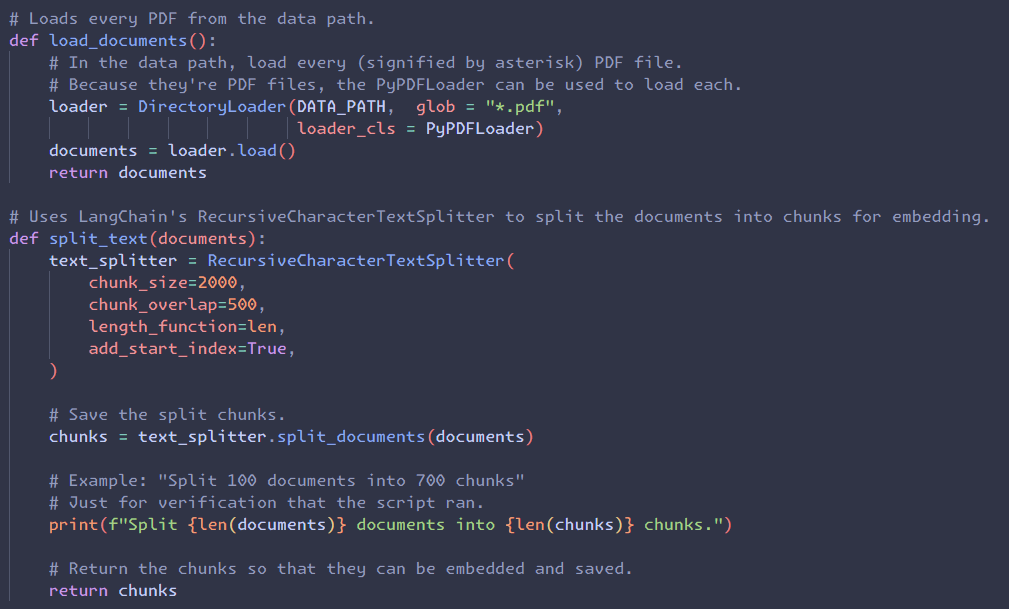
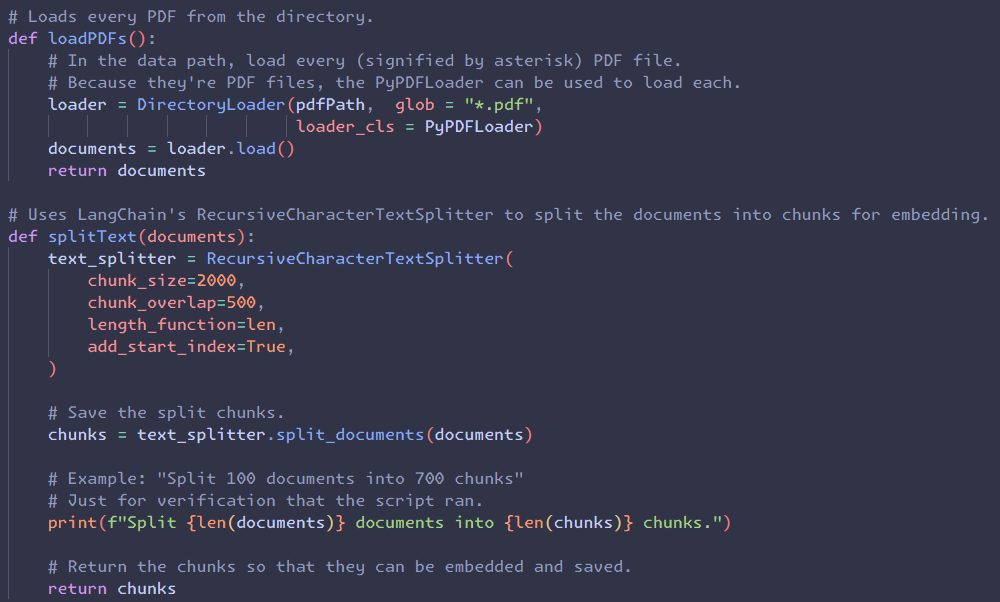
Updated some variable names and associated images with those variables for clarity

diff --git a/Artifact/VectorStore.py b/Artifact/VectorStore.py
@@ -28,34 +28,34 @@ import shutil
         #   FAISS-Unstructured: Chunk size 1000, Overlap 200, UnstructuredPDFLoader with default args.
         #   FAISS-BigChunks: Chunk size 1500, Overlap 300, PyPDFLoader with default args.
         #   FAISS-HugeChunks: Chunk size 2000, Overlap 500, PyPDFLoader with default args.
-FAISS_PATH = "VectorStores/FAISS-HugeChunks"
-DATA_PATH = "Data/Policies"#/TESTING" # minimise token use
+dbPath = "VectorStores/FAISS-HugeChunks"
+pdfPath = "Data/Policies"
 
 # Loads all PDFs, chunks them, then saves them to a FAISS DB.
-def generate_data_store():
+def generateDB():
     # Load every PDF.
-    documents = load_documents()
+    documents = loadPDFs()
     # Chunk all the text.
-    chunks = split_text(documents)
+    chunks = splitText(documents)
     # Save them to the Faiss DB.
-    save_to_faiss(chunks)
+    saveToFAISS(chunks)
 
-# Loads every PDF from the data path.
-def load_documents():
+# Loads every PDF from the directory.
+def loadPDFs():
     # In the data path, load every (signified by asterisk) PDF file.
     # Because they're PDF files, the PyPDFLoader can be used to load each.
-    loader = DirectoryLoader(DATA_PATH,  glob = "*.pdf",
+    loader = DirectoryLoader(pdfPath,  glob = "*.pdf",
                              loader_cls = PyPDFLoader)
     documents = loader.load()
     return documents
 
 # Uses LangChain's RecursiveCharacterTextSplitter to split the documents into chunks for embedding.
-def split_text(documents):
+def splitText(documents):
     text_splitter = RecursiveCharacterTextSplitter(
-        chunk_size=2000,  # See Lines 28 - 34 for info on size and overlap.
+        chunk_size=2000,  
         chunk_overlap=500,  
-        length_function=len, # A custom length function can be made, but I saw no need.
-        add_start_index=True, # Stores the chunk's starting character index in its metadata.
+        length_function=len, # ! Test if necessary.
+        add_start_index=True, # ! Test if necessary.
     )
 
     # Save the split chunks.
@@ -68,11 +68,10 @@ def split_text(documents):
     # Return the chunks so that they can be embedded and saved.
     return chunks
 
-
-def save_to_faiss(chunks):
+def saveToFAISS(chunks):
     # Clear out the database first if it exists.
-    if os.path.exists(FAISS_PATH):
-        shutil.rmtree(FAISS_PATH)
+    if os.path.exists(dbPath):
+        shutil.rmtree(dbPath)
 
     # Create a new DB from the documents.
     # Takes the chunks and uses OpenAI text-embedding-3-small to embed them as vectors.
@@ -85,11 +84,11 @@ def save_to_faiss(chunks):
     )
     
     # Save the generated DB to the given path.
-    faiss.save_local(folder_path = FAISS_PATH)
+    faiss.save_local(folder_path = dbPath)
     
-    print(f"Saved {len(chunks)} chunks to {FAISS_PATH}.")
+    print(f"Saved {len(chunks)} chunks to {dbPath}.")
 
 # When this file gets run, generate the FAISS DB, which by extension will load and chunk
 # all documents.
 if __name__ == "__main__":
-    generate_data_store()
+    generateDB()

diff --git a/Artifact/Chatbot.py b/Artifact/Chatbot.py
@@ -32,7 +32,7 @@ from langgraph.prebuilt import ToolNode, tools_condition
         #   FAISS-SmallChunks: Chunk size 500, Overlap 100, PyPDFLoader with default args.
         #   FAISS-BigChunks: Chunk size 1500, Overlap 300, PyPDFLoader with default args.
         #   FAISS-HugeChunks: Chunk size 2000, Overlap 500, PyPDFLoader with default args.
-FAISS_PATH = "VectorStores/FAISS-HugeChunks"
+dbPath = "VectorStores/FAISS-HugeChunks"
 
 
 # Sets up the embedding model with the API key.
@@ -42,22 +42,21 @@ embedder = OpenAIEmbeddings(
 )
 
 # Load the vector database.
-db = FAISS.load_local(folder_path = FAISS_PATH,
+db = FAISS.load_local(folder_path = dbPath,
                       embeddings = embedder,
                       allow_dangerous_deserialization=True)
-
-# Initialise the LLM.
-# LangChain automatically interprets the LLM in question to be OpenAI's gpt-4o-mini simply by
-# specifying its name as a string argument.
-llm = init_chat_model("gpt-4o-mini", temperature = 0,
-                      openai_api_key = os.environ["OPENAI_API_KEY"])
-
 
 # The FAISS DB is also stored as a serialized .pkl file. It's possible
 # for these files to contain malicious code that would be executed on deserialization,
 # hence "allow_dangerous_deserialization". However, I generated the files myself and know
 # that they aren't malicious.
 
+
+# Initialise the LLM.
+# LangChain automatically interprets the LLM in question to be OpenAI's gpt-4o-mini simply by
+# specifying its name as a string argument.
+llm = init_chat_model("gpt-4o-mini", temperature = 0,
+                      openai_api_key = os.environ["OPENAI_API_KEY"])
 
 
 @tool(response_format = "content")

diff --git a/Artifact/Streamlit Frontend.py b/Artifact/Streamlit Frontend.py
@@ -64,8 +64,8 @@ with chatHist:
             # so it would show a blank box. To fix this, the message is checked to see if it's blank first.
             if currentMsg.content != "":
                 # ? Use a robot profile picture. 
-                message_box = st.chat_message('assistant')
-                message_box.markdown(currentMsg.content)
+                messageBox = st.chat_message('assistant')
+                messageBox.markdown(currentMsg.content)
 
             # For logging purposes, the tool call used in the message is stored.
             toolCalls = currentMsg.additional_kwargs.get("tool_calls")
@@ -82,8 +82,8 @@ with chatHist:
         # ? Alternatively, if the user wrote it:
         elif isinstance(currentMsg, HumanMessage):
             # ? Use a person profile picture.
-            message_box = st.chat_message('user')
-            message_box.markdown(currentMsg.content)
+            messageBox = st.chat_message('user')
+            messageBox.markdown(currentMsg.content)
             
         
     # ? If it isn't an AIMessage or HumanMessage, it must be a ToolMessage.
@@ -91,8 +91,8 @@ with chatHist:
     # ? It still gets added to the message history, but there's no reason to output it.
     
         # else: 
-        #     message_box = st.chat_message(name = 'Tool', avatar = "🔍")
-        #     message_box.markdown(currentMsg.content)
+        #     messageBox = st.chat_message(name = 'Tool', avatar = "🔍")
+        #     messageBox.markdown(currentMsg.content)
 
 # In the right column, the queries being sent by the retrieval agent to the DB are logged.
 with queryLog:
